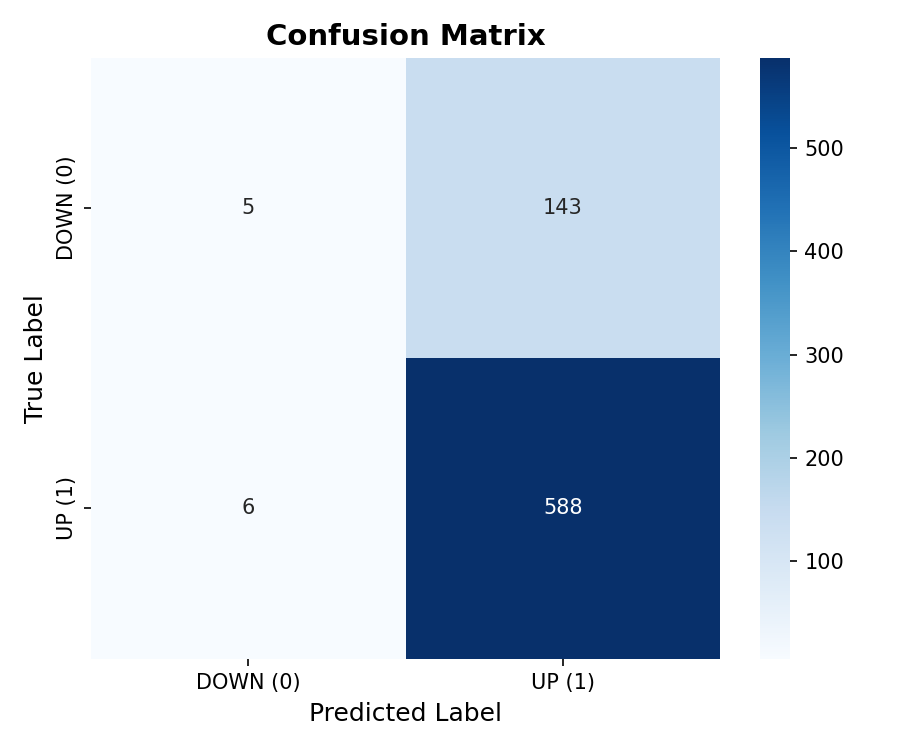
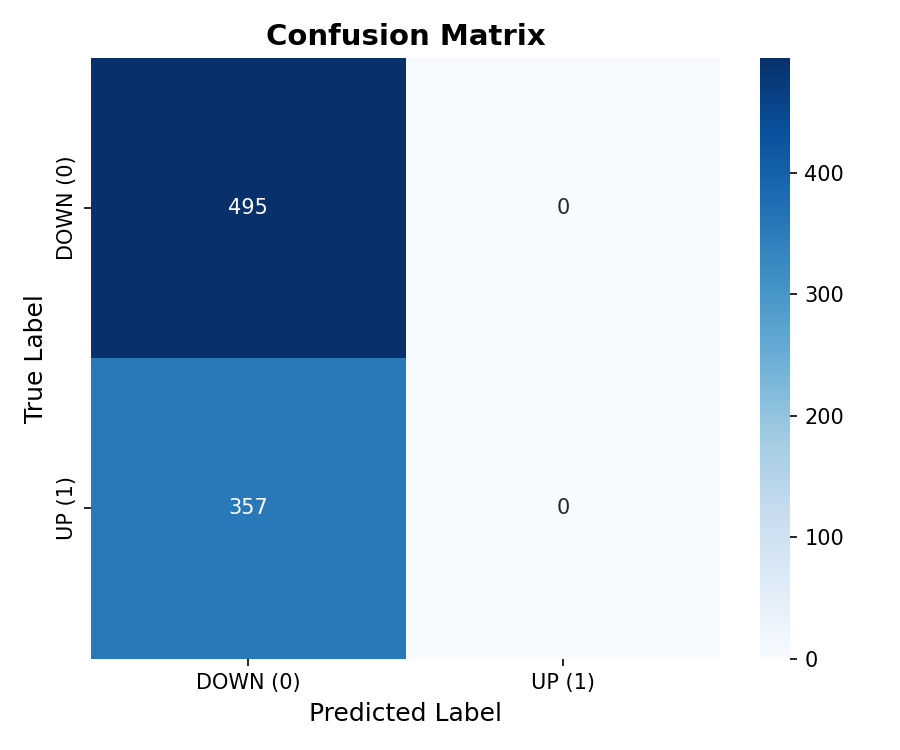
tesla version - Danny

diff --git a/initalMLModel/init_model.py b/initalMLModel/init_model.py
@@ -38,7 +38,7 @@ from sklearn.metrics import roc_curve, auc, ConfusionMatrixDisplay
 # -----------------------------
 # 1. LOAD DATASET
 # -----------------------------
-data = pd.read_csv("Amazon_data.csv")
+data = pd.read_csv("Tesla_data.csv")
 
 print("Dataset loaded successfully!")
 #print(data.head())